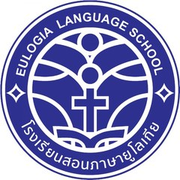
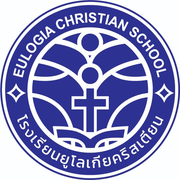
새 교표로 교체, 초안 표시 삭제 (#47)
* Add pre-contract preparation docs for EULOGIA CHIANGMAI website

Audit of the existing eulogia.ac.th site, competitor school site analysis,
client question sheet, material request list, sitemap and feature spec,
existing content inventory with Korean draft translations, design
guidelines, risk register, launch checklist, notice drafts, and data
files for the 2026-2027 school calendar and old-URL redirect map.

Claude-Session: https://claude.ai/code/session_01UqqFWdftryuh36CsCScj5v

* Narrow client questions to baht payment and domain; add PG and DNS findings

Content follows the client's production materials, so the question sheet
now asks only the two pre-contract items. Risk notes add Thai PG options
(Opn Payments, Stripe Thailand) with onboarding requirements and the
eulogia.ac.th DNS/hosting lookup (Movaci nameservers, self-hosted mail).

Claude-Session: https://claude.ai/code/session_01UqqFWdftryuh36CsCScj5v

* Record school license findings; drop personal ID number from docs

The registration number on the application is the representative's
personal Thai national ID, not a business number, so it is removed from
all docs and excluded from the site footer. Risk notes now reflect that
the licensee is Global Eulogia Co., Ltd. (corporate PG onboarding), and
add a section on school naming versus the non-formal school license.

Claude-Session: https://claude.ai/code/session_01UqqFWdftryuh36CsCScj5v
[…]

diff --git a/privacy.html b/privacy.html
@@ -11,7 +11,7 @@
 <link rel="preconnect" href="https://fonts.googleapis.com">
 <link rel="preconnect" href="https://fonts.gstatic.com" crossorigin>
 <link rel="stylesheet" href="https://fonts.googleapis.com/css2?family=Noto+Sans+KR:wght@400..700&family=Noto+Serif+KR:wght@600..700&family=Source+Serif+4:opsz,wght@36,400..700&display=swap">
-<link rel="stylesheet" href="assets/css/style.css?v=20261113i">
+<link rel="stylesheet" href="assets/css/style.css?v=20261117a">
 </head>
 <body>
 <a class="skip" href="#main">본문으로 건너뛰기</a>
@@ -19,7 +19,7 @@
 <header class="masthead">
   <div class="wrap">
     <a class="crest" href="./" aria-label="Eulogia Chiang Mai 홈으로">
-      <img src="assets/img/logo.jpg" alt="Eulogia 교표" width="48" height="48">
+      <img src="assets/img/logo.jpg" alt="Eulogia Christian School 교표" width="48" height="48">
       <span class="crest-txt"><b>EULOGIA</b><small lang="en">Chiang Mai · Est. 2013</small></span>
     </a>
     <a class="btn btn-navy head-cta page-cta" href="./#apply">입학 상담</a>
@@ -31,7 +31,6 @@
     <p class="kicker" lang="en">Privacy Policy</p>
     <h1>개인정보 처리방침</h1>
     <p class="sub-en" lang="en">How we handle your information</p>
-    <p class="note">초안입니다. 정식 오픈 전에 학교와 법률 검토를 거쳐 확정합니다. (Draft — subject to the school's review.)</p>
 
     <h2>1. 처리하는 곳</h2>
     <p>Global Eulogia Co., Ltd. (율로기아 · EULOGIA LANGUAGE SCHOOL, 학교 인가 번호 ชม 01-001/2558)<br>79 M.7 T.Faham, A.Muang, Chiang Mai 50000, Thailand</p>
@@ -74,7 +73,7 @@
     <h2 lang="en">English summary</h2>
     <p lang="en">Global Eulogia Co., Ltd. uses the details you send through the consultation form (parent name, phone, e-mail, programme, preferred date and time, number of visitors, language and message) only to contact you about admission. The form does not store data on a server; it opens an e-mail from your own mail app. We keep these e-mails only as long as needed and do not sell or share them. This site uses no analytics or advertising cookies; fonts load from Google Fonts and the site is hosted on GitHub Pages. To access, correct or delete your information, contact eulogiaschool@gmail.com.</p>
 
-    <p>시행일: 정식 오픈일 (초안 작성 2026년 11월)</p>
+    <p>시행일: 2026년 11월 17일</p>
     <a class="back" href="./">← 홈으로</a>
   </div>
 </main>

diff --git a/index.html b/index.html
@@ -26,7 +26,7 @@
 <link rel="preconnect" href="https://fonts.gstatic.com" crossorigin>
 <link rel="stylesheet" href="https://fonts.googleapis.com/css2?family=Noto+Sans+KR:wght@400..700&family=Noto+Serif+KR:wght@600..700&family=Source+Serif+4:opsz,wght@36,400..700&display=swap">
 <link rel="preload" as="image" href="assets/img/k-classroom.jpg">
-<link rel="stylesheet" href="assets/css/style.css?v=20261113i">
+<link rel="stylesheet" href="assets/css/style.css?v=20261117a">
 </head>
 <body>
 <a class="skip" href="#main">본문으로 건너뛰기</a>
@@ -36,14 +36,13 @@
     <span class="u-addr" lang="en">79 M.7 T.Faham, Chiang Mai</span>
     <span class="u-tel">한국어·English <a href="tel:+66993715575">099-371-5575</a> · Thai <a href="tel:+66850333982">085-033-3982</a></span>
     <span class="u-mail"><a href="mailto:eulogiaschool@gmail.com">eulogiaschool@gmail.com</a></span>
-    <p class="draft"><b class="draft-tag">초안</b> 사진과 일부 수치는 확인 후 교체</p>
   </div>
 </div>
 
 <header class="masthead">
   <div class="wrap">
     <a class="crest" href="#main" aria-label="Eulogia Chiang Mai 처음으로">
-      <img src="assets/img/logo.jpg" alt="Eulogia 교표" width="48" height="48">
+      <img src="assets/img/logo.jpg" alt="Eulogia Christian School 교표" width="48" height="48">
       <span class="crest-txt"><b>EULOGIA</b><small lang="en">Chiang Mai · Est. 2013</small></span>
     </a>
     <nav class="menu" aria-label="주 메뉴">
@@ -725,7 +724,7 @@
   <a href="https://www.google.com/maps/search/?api=1&amp;query=79+Moo+7+Fa+Ham+Mueang+Chiang+Mai+50000" target="_blank" rel="noopener">길 찾기</a>
 </nav>
 
-<script src="assets/js/data.js?v=20261113i"></script>
-<script src="assets/js/main.js?v=20261113i"></script>
+<script src="assets/js/data.js?v=20261117a"></script>
+<script src="assets/js/main.js?v=20261117a"></script>
 </body>
 </html>

diff --git a/assets/css/style.css b/assets/css/style.css
@@ -1210,3 +1210,7 @@ td.yr { font-variant-numeric: tabular-nums; font-weight: 700; white-space: nowra
 
 .spot h4 > span:not(.nw) { display: block; }
 .spot h4 .nw { display: inline; margin: 0; font: inherit; color: inherit; }
+
+/* 초안 표시 삭제 후: 이메일을 오른쪽 끝으로, 휴대폰에서는 빈 띠 숨김 */
+.utility .u-mail { margin-left: auto; }
+@media (max-width: 599px) { .utility { display: none; } }
